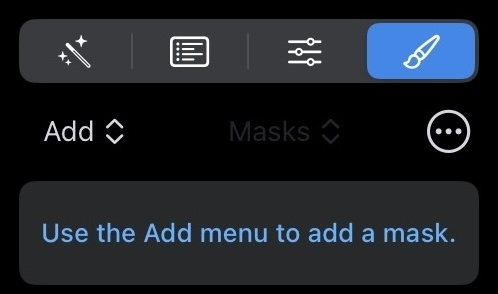
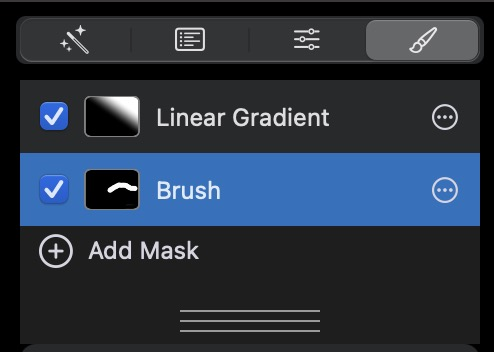
update manual for new masking interface

diff --git a/nitro/user-manual/index.html b/nitro/user-manual/index.html
@@ -825,9 +825,9 @@
 </li>
         
           <li class="md-nav__item">
-  <a href="#mask-options" class="md-nav__link">
+  <a href="#brushing-menu" class="md-nav__link">
     <span class="md-ellipsis">
-      Mask Options
+      Brushing Menu
     </span>
   </a>
   
@@ -835,15 +835,6 @@
         
       </ul>
     </nav>
-  
-</li>
-        
-          <li class="md-nav__item">
-  <a href="#mask-overlays" class="md-nav__link">
-    <span class="md-ellipsis">
-      Mask Overlays
-    </span>
-  </a>
   
 </li>
         
@@ -1948,84 +1939,111 @@ aberration near edges / high contrast areas. If you have red or cyan aberration,
 <p>The Vignette in Nitro allows you to specify the center point. To do this click the targeting control next to the reset button and then click and drag on the image. You might want to increase the intensity of the effect before changing the center point to make it easier to see what will happen. Vignette applies its effect after crop, so if you want to lighten the edges of an image before crop is applied to counteract lens shading, then use the Devignette tool in the Lens adjustment.</p>
 <h2 id="masking"><a name=Masking></a>Masking</h2>
 <p><a href="#top">Back to top</a></p>
+<p>Important Note - masking is a very rich and complex feature in Nitro. I have made a video that demonstrates the features in depth.
+To avoid repeating myself, the below description is abbreviated. Please watch <a href="https://www.youtube.com/watch?v=12MBwXYKN_4">the masking video</a>.</p>
 <p>Masking is a very powerful feature of Nitro. It allows you to work selectively on regions of an image, applying adjustments just to the area you are interested in. For example, you might want to sharpen the eyes of a person in a portrait without sharpening their skin. Or apply a black and white treatment to the background of an image while leaving the foreground in color. Or a selective adjustment like HSL might allow you to make the sky more blue, but you don't want it to affect a person's blue shirt elsewhere in the image. Linear gradients are ideal for working with skies while radial gradients help with making natural lighting effects.</p>
-<p>Note: Nitro uses the term "mask" in the opposite manner of a traditional darkroom. In a darkroom, the mask is the area that is <strong>not</strong> affected, while in Nitro, the mask is the area that <strong>is</strong> affected.</p>
+<p>Note: Nitro uses the term "mask" in the opposite manner of a traditional darkroom. In a darkroom, the mask is the area that is <strong>not</strong> affected, while in Nitro, the mask is the area that <strong>is</strong> affected. Think of it like a text selection in a word processor.</p>
 <p>You access the masking interface by picking the last of the four main editing modules:</p>
-<p align=left><img src="images/four_way_mask@2x.jpg" height="147"/></p>
+<p align=left><img src="images/four_way_mask@2x.jpg" height="176"/></p>
 
+<p>TIP: The three lines below the "Add Mask" button lets you resize the mask table to give you more working space.</p>
 <h3 id="mask-types">Mask Types</h3>
 <p>Start by adding a mask. There are several types:</p>
-<p align=left><img src="images/mask_types@2x.jpg" height="313"/></p>
+<p align=left><img src="images/mask_types@2x.jpg" height="266"/></p>
 
 <ol>
-<li>Brush Mask: use painting tools to define the area of the image you want to work on.</li>
+<li>Brush: use painting tools to define the area of the image you want to work on.</li>
 <li>Linear Gradient: a smooth rectangular area which can be rotated, inverted, or flipped.</li>
 <li>Radial Gradient: a circular mask with a gradient inside of it. You can rotate, resize, or stretch it into an ellipse.</li>
-<li>AI Subject Mask: makes a mask of the foreground subject using a machine learning model.</li>
-<li>AI Background Mask: makes a mask of the background using a machine learning model.</li>
+<li>Luminance: a mask that uses a range of brightness levels to determine which pixels to affect.</li>
+<li>Color Range: a mask that uses a single color and a range slider to determine the pixels to affect.</li>
+<li>AI Subject: makes a mask of the foreground subject using a machine learning model.</li>
+<li>AI Background: makes a mask of the background using a machine learning model.</li>
+<li>Depth: lets you edit images with depth information, such as iPhone portrait images.</li>
 </ol>
-<p>Once you have created a mask, you can modify it, and you can also apply adjustments to it. Each mask can have a large number of adjustments applied to it. Most Nitro adjustments can be applied to a mask. For example, you can create two masks and apply different White Balance corrections to adjust for a mixed lighting situation.</p>
-<p align=left><img src="images/mask_adjustments@2x.jpg" height="341"/></p>
+<p>While Brush is a type of mask, you can actually brush or erase any time of mask in order to fine tune the mask. 
+This is especially useful for AI, Color Range and Luminance masks. However, you cannot brush to add pixels to a Luminance 
+or Color Mask - just erase. You can also combine a few mask types. You can add or subtract an AI Subject or 
+AI Background mask from Linear and Radial Gradients.</p>
+<p>Once you have created a mask, you can modify it, and you can also apply adjustments to it. When you select a mask, you
+will see a brushing interface, and a segmented control for "Adjustments" and "Options".</p>
+<p align=left><img src="images/select_mask@2x.jpg" height="382"/></p>
 
+<p>Each mask can have a large number of adjustments applied to it. Most Nitro adjustments can be applied to a mask. 
+For example, you can create two masks and apply different White Balance corrections to adjust for a mixed lighting situation.</p>
+<p><b>Please note</b>, there is currently a bug with macOS and iOS with RAW images and masking. If you adjust the whole image with
+one adjustment, and then use a mask with that same adjustment, sometimes the masked area will apply to the whole image,
+not the selected area. There isn't a workaround other than to use different adjustments. 
+I am working with Apple to address this problem.</p>
+<p>Below is the Mask Options interface:</p>
+<p align=left><img src="images/mask_options@2x.jpg" height="254"/></p>
+
+<ul>
+<li>Intensity lets you dial up or down the amount of the masked effect (like the opacity of a layer).</li>
+<li>Feather blurs the edge of the mask to avoid harsh transitions. This is especially useful with AI Subject masks, and 
+edge following brushes.</li>
+<li>Luminance lets you set a range of luminance values. Outside of that range the mask has no effect. This is helpful when targeting only bright or dark areas.</li>
+<li>Color Range lets you establish a range of colors to affect.</li>
+</ul>
+<p>While there are also luminance and color range masks, the luminance and color range options can be applied to any mask.</p>
 <p>Depending on the type of mask you create, Nitro will provide you with mask editing tools. For a brush mask or an AI mask, Nitro will enable the painting tools. For a linear or radial gradient, Nitro will show the gradient on-screen tools to move or rotate the gradient. </p>
-<p align=left><img src="images/linear_gradient@2x.jpg" height="500"/></p>
+<p align=left><img src="images/linear_gradient@2x.jpg" height="578"/></p>
 
-<p>Please note that you can brush any mask in Nitro, including AI masks and gradients. This is an extremely powerful way to tune an AI mask or gradient to be exactly what you want with a minimum of effort.</p>
 <h3 id="brushing">Brushing</h3>
 <p>As mentioned above, you can brush any mask in Nitro. The brushing tools appear below the mask menu:</p>
-<p align=left><img src="images/brushing_tools_annotated@2x.jpg" height="253"/></p>
+<p align=left><img src="images/brushing_tools2@2x.jpg" height="238"/></p>
 
-<p>The first tool, paint, lets you add to a mask. The erase tool removes from a mask. The third tool provides ways to control the mask by color, brightness, or intensity. </p>
+<p>The first tool, paint, lets you add to a mask. The erase tool is second, and removes from a mask. 
+The third tool lets you move a linear or radial gradient.</p>
 <h4 id="painting-and-erasing">Painting and Erasing</h4>
 <p>To paint, start by selecting the paint brush. These are the brush parameters:</p>
 <ul>
 <li>Size - how big the outer edge of the brush is (all brushes are circular)</li>
 <li>Strength - how much paint is applied (this can be also be considered opacity)</li>
 <li>Softness - brushes have a solid interior which gradually fades toward the outer edge. The softness controls how much of the brush is solid. Nitro shows the brush as two concentric circles so you can see how softness works.</li>
+<li>Flow - this is the amount of paint that comes out of the brush. It's related to strength but different. Flow slowly builds up
+to the strength limit without exceeding it. Most people will either set flow to 1.0 and just adjust strength, or reduce flow
+and use strength as a maximum for more control.</li>
 </ul>
-<p>To change any of these parameters, tap or click on the numeric value (in the image, tap on the 25, 100, or 50). That will enable the slider below the numbers. The brush cursor will update in real time to show you how the brush will change. </p>
-<p>The last control is Edges. This enables an “edge aware” or “contour following” brush mode. When you turn on Edges, Nitro’s brush will paint only on one side of an edge, allowing you to follow contours. It can take a little practice but it’s extremely powerful. However, you will want to use the brush in both Edge On and Edge Off modes for best results.</p>
+<p>The last control is Follow Edges. This enables an “edge aware” or “contour following” brush mode. 
+When you turn on Edges, Nitro’s brush will paint only on one side of an edge, allowing you to follow contours. 
+It can take a little practice but it’s extremely powerful. However, you will want to use the brush in both on and off
+modes for best results. Next to the Follow Edge switch is a menu that lets you adjust how sensitive the edge following is.</p>
 <p>You can see the effectiveness of the edge aware brush in the below image, where the red area is the brushed area.</p>
 <p align=left><img src="images/edge_aware@2x.jpg" height="270"/></p>
 
-<p>Below the brush size slider are a few quick actions:
-  * Fill will completely fill the mask. The next step is usually to use the eraser to remove portions of the mask. This is useful if you want to apply an effect to most of the image.
-  * Clear makes the mask empty so you can start over again.
-  * Invert reverses the mask. This can be useful if you want to work on the opposite area that you painted (for example, the area is very large, so you paint on the small area you don’t want to affect, and then invert).</p>
-<p>When you are done painting, tap the blue checkmark to exit the painting mode.</p>
-<h4 id="mask-options">Mask Options</h4>
-<p>Also in the painting interface are mask options, as shown below.</p>
-<p align=left><img src="images/mask_options@2x.jpg" height="205"/></p>
+<p>On the right side is the overlay toggle to show and hide the masking overlay (sometimes called a rubylith). </p>
+<h4 id="brushing-menu">Brushing Menu</h4>
+<p align=left><img src="images/mask_overlay_options@2x.jpg" height="228"/></p>
 
+<p>The brushing menu appears to the right of the overlay button. </p>
 <ul>
-<li>Luminance lets you set a range of luminance values. Outside of that range the mask has no effect. This is helpful when targeting only bright or dark areas.</li>
-<li>Color Range lets you establish a range of colors to affect.</li>
-<li>Intensity lets you dial up or down the amount of the masked effect (like the opacity of a layer).</li>
+<li>Fill will completely fill the mask. The next step is usually to use the eraser to remove portions of the mask. This is useful if you want to apply an effect to most of the image.</li>
+<li>Clear makes the mask empty so you can start over again.</li>
+<li>Invert reverses the mask. This can be useful if you want to work on the opposite area that you painted (for example, the area is very large, so you paint on the small area you don’t want to affect, and then invert).</li>
 </ul>
-<p>Each mask can have its own mask options.</p>
-<h3 id="mask-overlays">Mask Overlays</h3>
-<p>Next to the paint tools is a half circle which represents the Mask Overlay options which control a visual overlay of the mask itself.</p>
-<p align=left><img src="images/mask_overlay@2x.jpg" height="250"/></p>
-
+<p>This menu also gives you options for different types of overlays.</p>
 <ul>
-<li>No Overlay: the mask is not visible, other than through the adjustments applied.</li>
 <li>On Black Overlay: the mask is drawn, but the image is not drawn.</li>
 <li>Rubylith Overlay: a red overlay appears.</li>
 <li>Translucent Rubylith: same as the rubylith, but it has some transparency to help you see the image behind it.</li>
 </ul>
 <h3 id="moving-a-gradient-mask">Moving a Gradient Mask</h3>
 <p>Linear and Radial Gradients can be repositioned. Because you can also brush on a gradient mask, to move a gradient select the last of the four tools which looks like a four directional arrow. On screen controls appear to let you move or resize the gradient. </p>
-<p align=left><img src="images/move_tool@2x.jpg" height="250"/></p>
+<p align=left><img src="images/movetool@2x.jpg" height="185"/></p>
 
 <ul>
 <li>Invert: this switch lets you reverse the gradient’s effective area.</li>
 <li>Constrain: this switch limits a radial gradient to a circle and linear gradient to 45 degree angles.</li>
 <li>Ramp: this slider lets you control how the gradient falls off from maximum to minimum.</li>
 </ul>
+<p>Reset Position will place the gradient at its starting position. The shift key will also constrain the mask temporarily:
+by 45 degrees for linear gradients and to a circle for radial
+gradients.</p>
 <h3 id="switching-masks-and-the-mask-menu">Switching Masks and the Mask Menu</h3>
-<p>Switch between masks by first tapping the blue checkmark. Then use the Mask popup menu to choose a different mask (or use the Add popup menu to create a new mask)</p>
-<p>Next to the Add and Mask popup menus is the Mask Options button. This brings up a menu with more commands.</p>
-<p align=left><img src="images/mask_menu@2x.jpg" height="380"/></p>
+<p>Switch between masks by selecting a different one from the top list (or by clicking Add Mask to make a new one). 
+Next to each mask is a mask menu with basic mask-oriented commands:</p>
+<p align=left><img src="images/switching_masks@2x.jpg" height="273"/></p>
 
 <ul>
 <li>Duplicate: creates a duplicate of the current mask. You can rename the mask. </li>
@@ -2035,7 +2053,6 @@ aberration near edges / high contrast areas. If you have red or cyan aberration,
 <li>Reset Edits for Mask: removes the edits from the mask</li>
 <li>Include Edits when Duplicating: If checked, then the Duplicate and Duplicate and Invert commands will also copy the edits to the duplicate mask.</li>
 </ul>
-<p>Note: the Duplicate commands are in Nitro version 2025.1 and are not available in earlier versions.</p>
 <h2 id="raw-jpeg-editing-in-photos">RAW + JPEG Editing in Photos</h2>
 <p>When browsing the Photo library, RAW + JPEG image pairs are represented by a single thumbnail. The thumbnail shown is the one made by Photos, or is the result of editing either the RAW or the JPEG. Photos defaults to editing the JPEG, while Nitro defaults to editing the RAW. There are a few different ways to control which one is edited. While in Edit, if you have an R+J image, you can switch between the two with the R+J button. It is located next to the 4-way control as shown here:</p>
 <p align=left><img src="images/rj_switch@2x.jpg" height="164"/></p>
